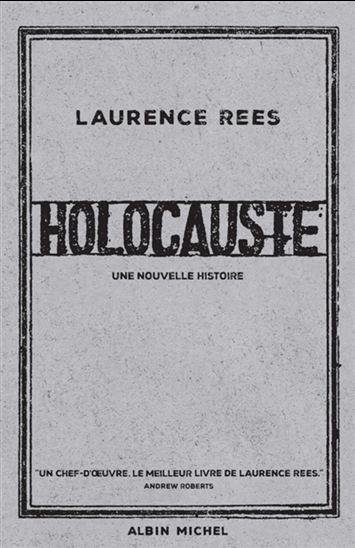
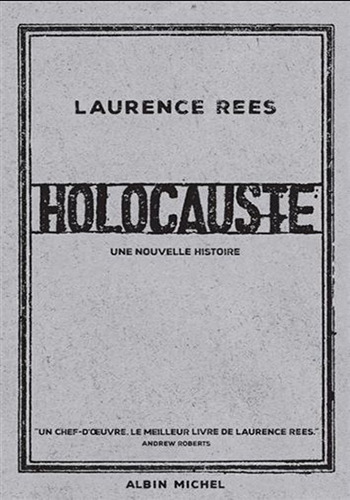
Redimensionnement des images, ajout du descriptif du livre sur lequel on clique, Clean, Fin tu TP

diff --git a/IFT1142_TP3_Stephane_Barthelemy/javascript/lalivrairie.js b/IFT1142_TP3_Stephane_Barthelemy/javascript/lalivrairie.js
@@ -3,11 +3,7 @@
 
 
 var livres = [];  // Tableau des livres
-var panier = [  // DEBUG
-  {"id":1,"nombre":2},
-  {"id":12,"nombre":1},
-  {"id":5,"nombre":5}
-];  // Tableau des articles dans le panier
+var panier = [];  // Tableau des articles dans le panier
 
 var coordonnees = {};//{    // Coordonnées de la personne
 
@@ -42,28 +38,7 @@ function afficheContenuPageLivres(filtre){
     $("#livresCard").append(listElements);
     
     // On indique ce qui est affiché
-    var titre;
-    switch(filtre.id.toLowerCase()){
-      case "roman":
-        titre = "Nos Romans";
-        break;
-      case "sciences":
-        titre = "Nos Livres de Sciences";
-        break;
-      case "histoire":
-        titre = "Nos Livres d'Histoire";
-        break;
-      case "bdmanga":
-        titre = "Nos BD et Mangas";
-        break;
-      case "sciencefiction":
-        titre = "Nos Livres de Science-Fiction";
-        break;
-      default:
-        titre = "Tous nos Livres";
-        break;
-    }
-    $("#currentDisplay").text(titre);
+    $("#currentDisplay").text(getCategorieTitre(filtre.id));
   }  
 }
 
@@ -125,6 +100,7 @@ function getCardElement(leLivre){
   lImage.setAttribute("alt", "Image Livre"); 
   lImage.setAttribute("class", "w3-card-4"); 
   lImage.setAttribute("style", "height:200px");
+  lImage.setAttribute("onClick", "displayLivreDetail(this);");
 
   // Npm de l'auteur
   var lAuteur = document.createElement("h5");
@@ -153,14 +129,13 @@ function getCardElement(leLivre){
   return laCard;
 }
 
-
 // Ajoute l'élément en paramètre au panier
 function addOneToPanier(element){
   var id = element.parentElement.parentElement.parentElement.getAttribute("data-userid");
   var found = false;
   var taille = panier.length;
 
-  // On ajoute un élément au panier
+  // On ajoute un élément au panier (s'il existe déjà)
   for(var i = 0 ; i < taille ; i++){
     article = panier[i];
     if(article.id == id){
@@ -183,6 +158,42 @@ function addOneToPanier(element){
   refreshButtonPanier();
 }
 
+// Renvoie le nom de la catégorie correspondant à son code
+function getCategorieName(catCode){
+  switch(catCode.toLowerCase()){
+    case "roman":
+      return "Romans";
+    case "sciences":
+      return "Sciences";
+    case "histoire":
+      return "Histoire";
+    case "bdmanga":
+      return "BD et Mangas";
+    case "sciencefiction":
+      return "Science-Fiction";
+    default:
+      return "";
+  }
+}
+
+// Renvoie le titre de la catégorie correspondant à son code
+function getCategorieTitre(catCode){
+  switch(catCode.toLowerCase()){
+    case "roman":
+      return "Nos " + getCategorieName(catCode);
+    case "sciences":
+      return "Nos Livres de " + getCategorieName(catCode);
+    case "histoire":
+      return "Nos Livres d'" + getCategorieName(catCode);
+    case "bdmanga":
+      return "Nos " + getCategorieName(catCode);
+    case "sciencefiction":
+      return "Nos Livres de " + getCategorieName(catCode);
+    default:
+      return "Tous nos Livres";
+  }
+}
+
 // On affiche le nombre d'article dans le panier
 function refreshButtonPanier(){
   var nbArticle = 0;
@@ -190,6 +201,22 @@ function refreshButtonPanier(){
     nbArticle += p.nombre;
   });
   $("#panierBadge").text(nbArticle);
+}
+
+// Affiche le detail du livre
+function displayLivreDetail(ceLivre){
+  // On récupère l'Id
+  var id = ceLivre.parentElement.parentElement.getAttribute("data-userid");
+  
+  // On rempli les champs avec les informations du livre choisi
+  $("#livreDetailImage").attr("src", "images/" + livres[id].image);
+  $("#livreDetailTitre").text(livres[id].titre);
+  $("#livreDetailAuteur").text(livres[id].auteur);
+  $("#livreDetailDesc").text(livres[id].desc);
+  $("#livreDetailCategorie").text(getCategorieName(livres[id].categorie));
+
+  // On affiche la fenêtre
+  document.getElementById('livreModal').style.display='block';
 }
 
 
@@ -630,19 +657,6 @@ function payerPanier(){
   refreshButtonPanier();
 }
 
-// DEBUG : Affiche le contenu du tableau "panier"
-function AlertPanier(){  
-  var popo = "";
-  var taille = panier.length;
-  for(var i = 0 ; i < taille ; i++){
-    popo += panier[i].id + "(" + panier[i].nombre + ")";
-    if(i < taille - 1){
-      popo += ", ";
-    } 
-  }
-  alert("panier = " + popo);
-}
-
 
 /* ====================== */
 /* ===    FACTURE     === */
@@ -927,7 +941,3 @@ $(document).ready(function() {
   });
 
 }); //Fonctions JQuery
-
-
-// DEBUG
-//alert("PAGE RELOADÉE !!");

diff --git a/IFT1142_TP3_Stephane_Barthelemy/index.html b/IFT1142_TP3_Stephane_Barthelemy/index.html
@@ -67,11 +67,10 @@
   <!-- PAGE CONTENT -->
   <div class="w3-main" style="margin-left:300px">
 
-    <!-- Header -->
-    <a href="#"><img src="/w3images/avatar_g2.jpg" style="width:65px;" class="w3-circle w3-right w3-margin w3-hide-large w3-hover-opacity"></a>
+    <!-- Header (bouton menu qui apparait si l'affichage n'est pas très large)-->
     <span class="w3-button w3-hide-large w3-xxlarge w3-hover-theme" onclick="w3_open()"><i class="fa fa-bars"></i></span>
 
-    <!-- NavBar -->
+    <!-- NavBar  -->
     <div class="w3-bar w3-theme-dark">
 
       <!-- HEURE -->
@@ -79,7 +78,6 @@
 
       <!-- BOUTON NOUVEAUTÉ -->
       <button onclick="afficheContenuPageLivres()" class="w3-bar-item w3-button w3-large w3-hover-theme w3-margin w3-text-theme"><i class="fa fa-diamond w3-margin-right"></i>Nouveauté !</button>
-
 
       <!-- BOUTON AFFICHER TOUS LES ARTICLES -->
       <button id="AllLivres" onclick="afficheContenuPageLivres(this)" class="w3-bar-item w3-large  w3-hover-theme w3-button w3-margin w3-text-theme"><i class="fa fa-list w3-margin-right"></i>Afficher tous les articles</button>
@@ -108,7 +106,7 @@
       </button>
       <!--<button onclick="AlertPanier()" class="w3-button w3-red">Tableau Panier</button>-->
       
-    </div><!-- NavBar -->
+    </div><!-- NavBar  -->
 
 
     <!-- PANIER MODAL -->
@@ -194,11 +192,34 @@
       <h2 id="currentDisplay"></h2>
     </div> 
 
+
     <!-- CARD DES LIVRES -->
     <div id="livresCard" class="w3-container"></div>
 
+
+    <!-- MODAL LIVRE DETAIL -->
+    <div id="livreDetail">
+      <div id="livreModal" class="w3-modal" onclick="this.style.display='none'">
+        <div id="livreDetail" class="w3-modal-content w3-card-4 w3-animate-zoom">
+          <div class="w3-bar w3-padding w3-theme-l4 w3-topbar w3-bottombar w3-border-teal">
+            <div class="w3-bar-item">
+              <img id="livreDetailImage" src="" alt="image_livre" style="height:400px;">
+            </div>
+            <div class="w3-bar-item" style="width:60%">
+              <h3 id="livreDetailTitre"></h3>
+              <p id="livreDetailAuteur" class="w3-opacity"></p>
+              <p id="livreDetailDesc"></p>
+              <h6><i>Catégorie : <span id="livreDetailCategorie"></span></i></h6>
+            </div>
+          </div>
+        </div>
+      </div>
+    </div>
+
+
     <!-- SNACKBAR -->
     <div id="snackbar"></div>
+
 
     <!-- ABOUT -->
     <div id="about" class="w3-theme-l1" style="padding-bottom:16px;">

diff --git a/IFT1142_TP3_Stephane_Barthelemy/style/style.css b/IFT1142_TP3_Stephane_Barthelemy/style/style.css
@@ -10,7 +10,6 @@ html{
 }
 
 body{
-  /*background-color: #F0EFE2;*/
   color: #777;
 }
 
